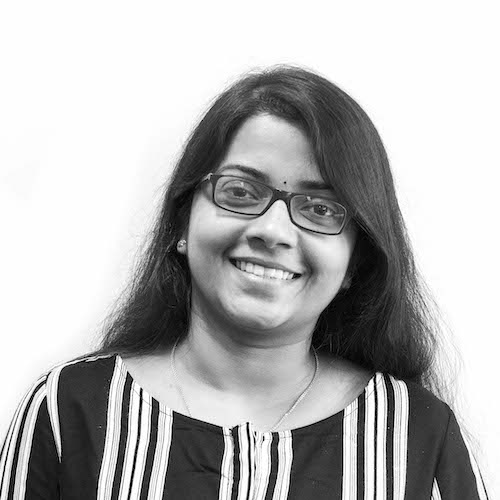
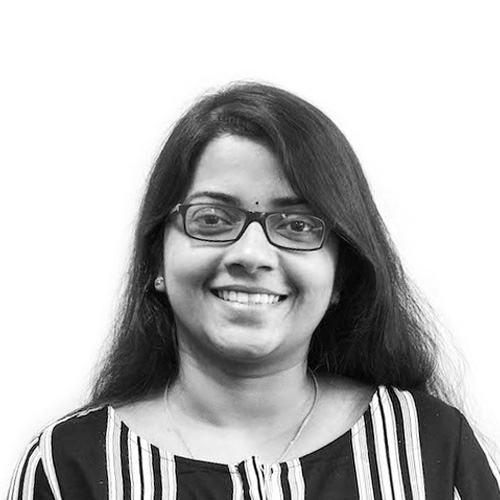
Editing Singapore team
Changed Singapore team headshots
Added Alex and Ervin's profiles
Removed Sami's profile

diff --git a/src/assets/team/index.js b/src/assets/team/index.js
@@ -26,19 +26,21 @@ import mike from './mike.jpg'
 import patty from './patty.jpg'
 import paul from './paul.jpg'
 import ricardo from './ricardo.jpg'
-import sami from './sami.jpg'
 import sarah from './sarah.jpg'
 import sheridan from './sheridan.jpg'
 import timothy from './timothy.jpg'
 import trent from './trent.jpg'
 import troy from './troy.jpg'
 import yvonn from './yvonn.jpg'
+import alex from './alex.jpg'
+import ervin from './ervin.jpg'
 
 export default {
     ahmed,
     aish,
     aitor,
     alessandra,
+    alex,
     artur,
     bruce,
     chalid,
@@ -50,6 +52,7 @@ export default {
     dimi,
     don,
     emily,
+    ervin,
     fang,
     irene,
     jernej,
@@ -63,7 +66,6 @@ export default {
     patty,
     paul,
     ricardo,
-    sami,
     sarah,
     sheridan,
     timothy,
